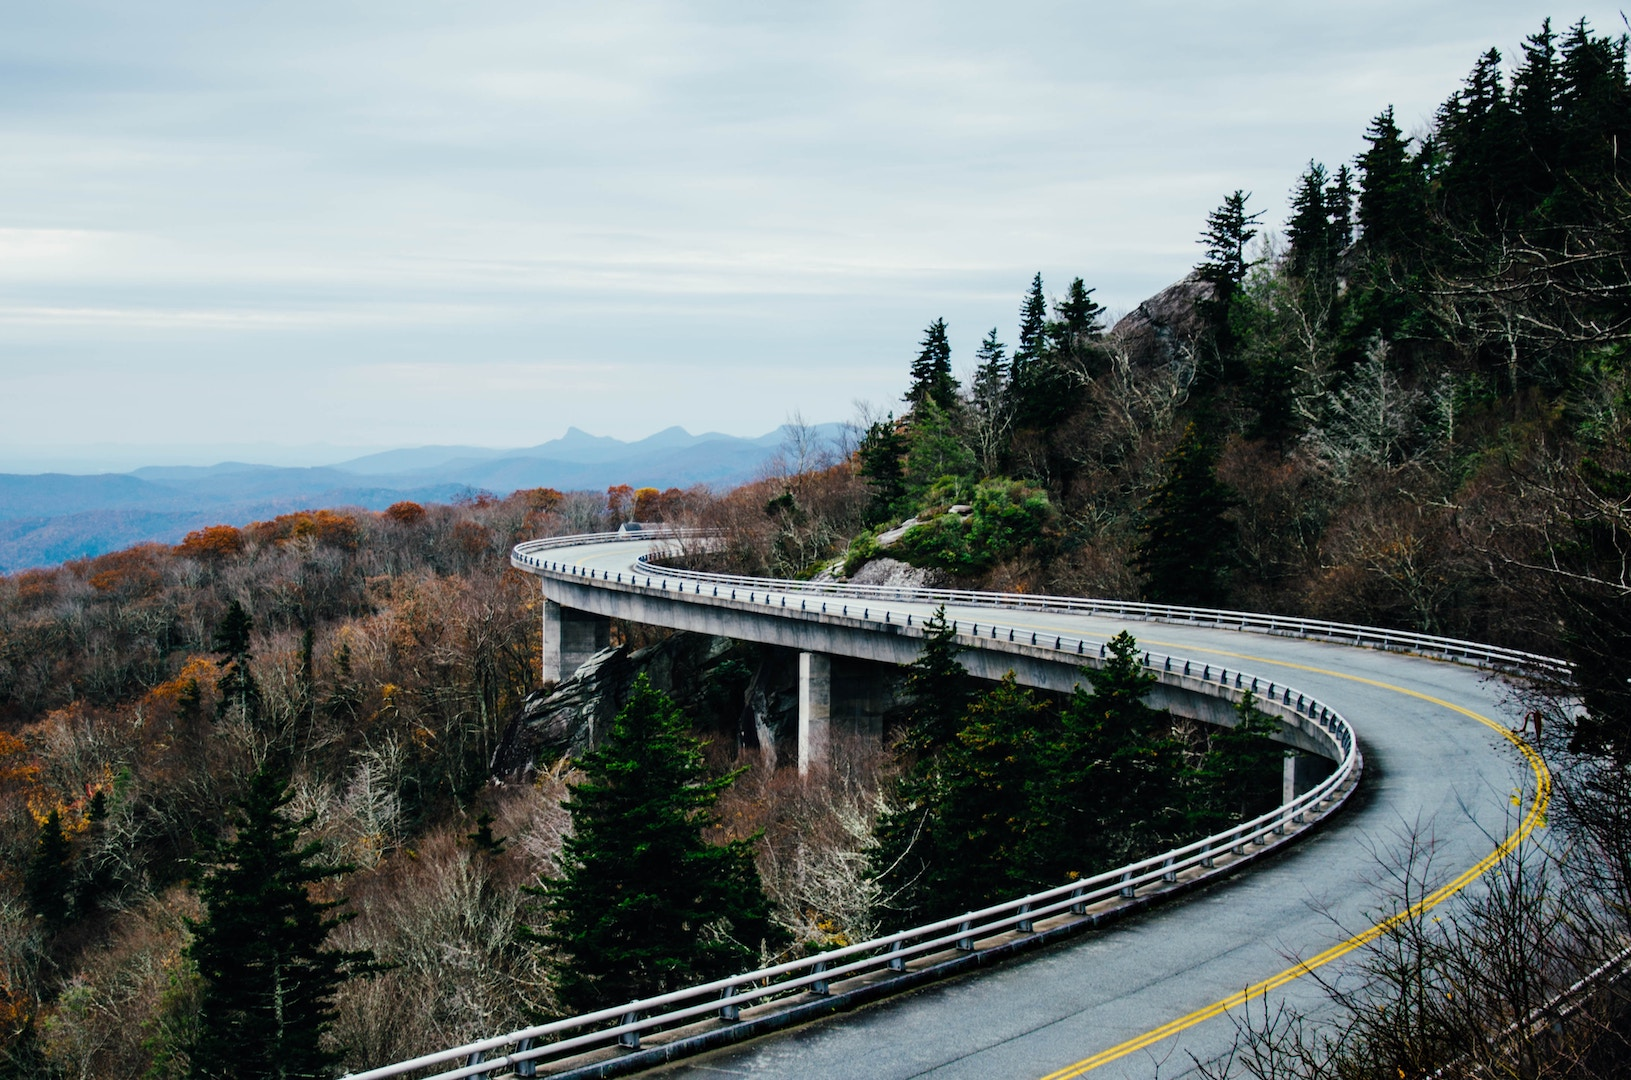
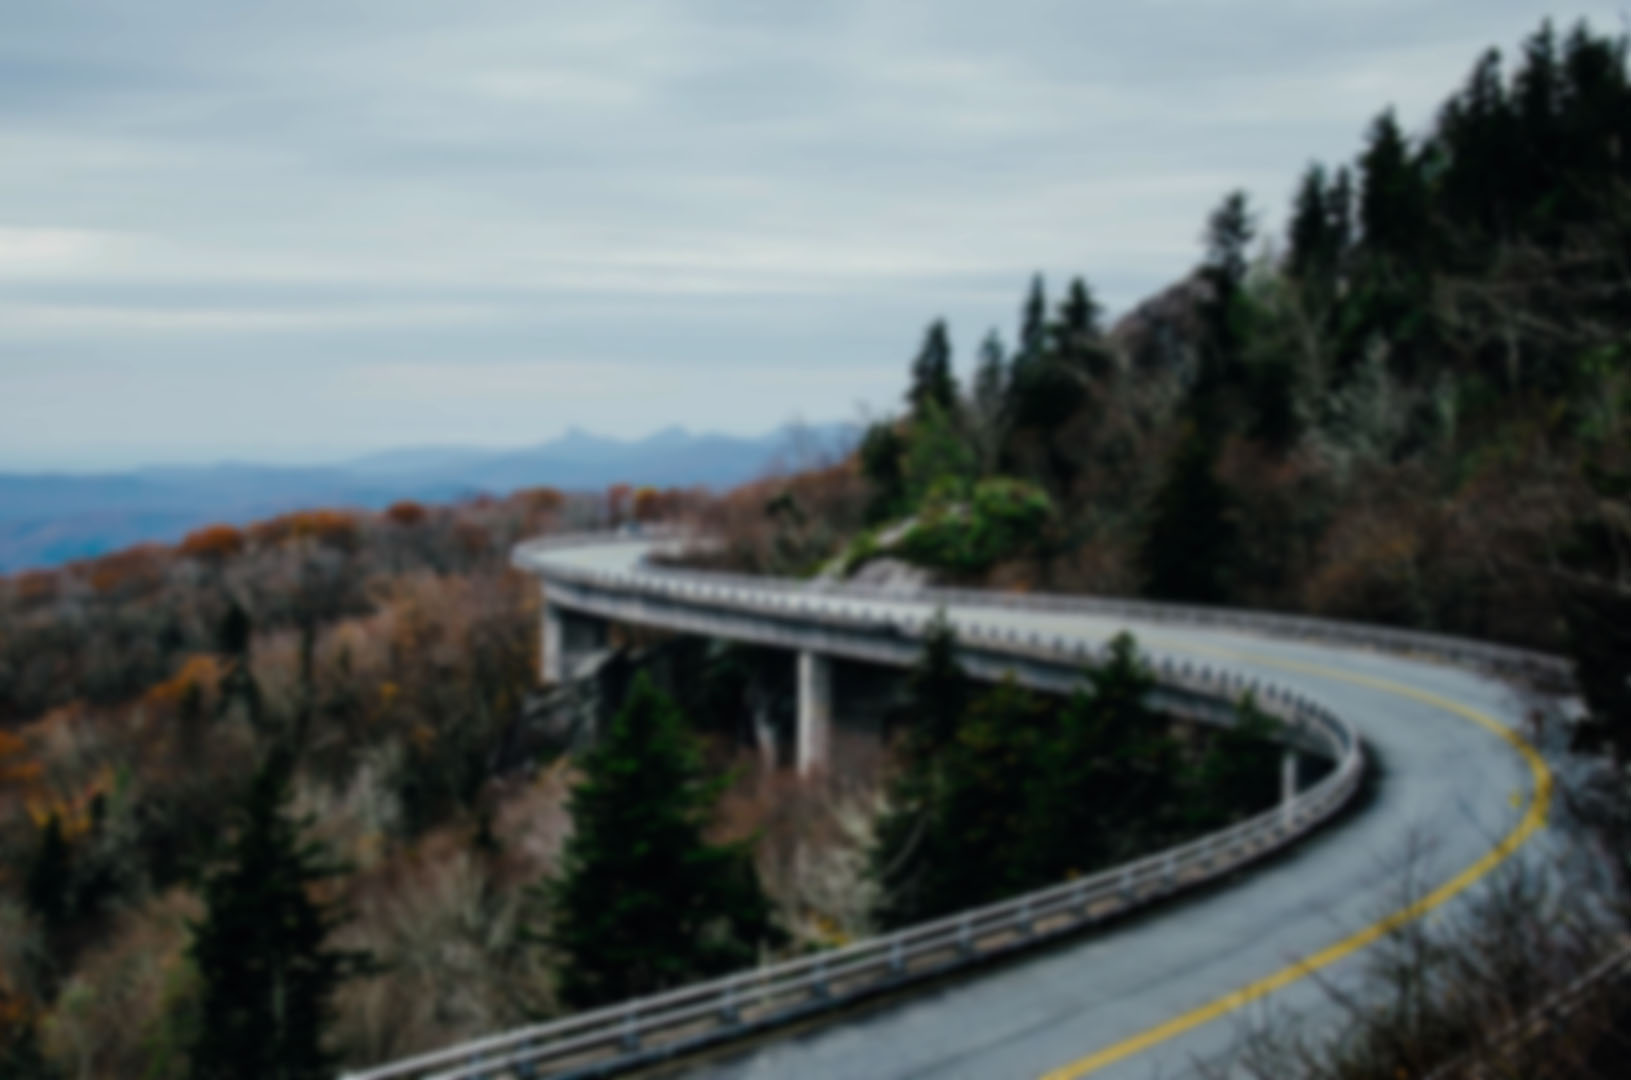
course bg

diff --git a/src/components/pages/CourseListPage/CourseCard.tsx b/src/components/pages/CourseListPage/CourseCard.tsx
@@ -36,7 +36,9 @@ export class CourseCard extends React.Component<Props> {
         const { course } = this.props
 
         return (
-            <StyledCard onTouchTap={this.handleTouchTap}>
+            <StyledCard onTouchTap={this.handleTouchTap} styled={{
+                color:'white',
+            }}>
                 <CardHeader title={course.name} />
             </StyledCard>
         )

diff --git a/src/components/pages/CourseListPage/index.tsx b/src/components/pages/CourseListPage/index.tsx
@@ -24,7 +24,9 @@ export class CourseListPage extends React.Component<Props> {
     }
     render() {
         return (
-            <Page>
+            <Page style={{
+                backgroundImage:'url(/static/pic/course-bg.jpg)',
+            }}>
                 {this.sortedCourses.map(course =>
                     <CourseCard key={course.id} course={course} />
                 )}
